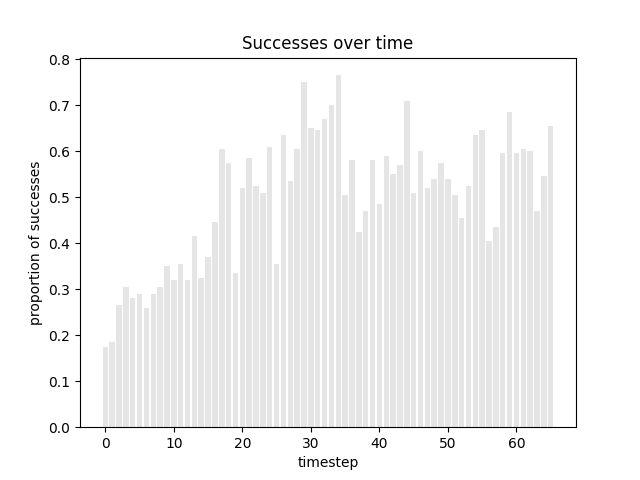
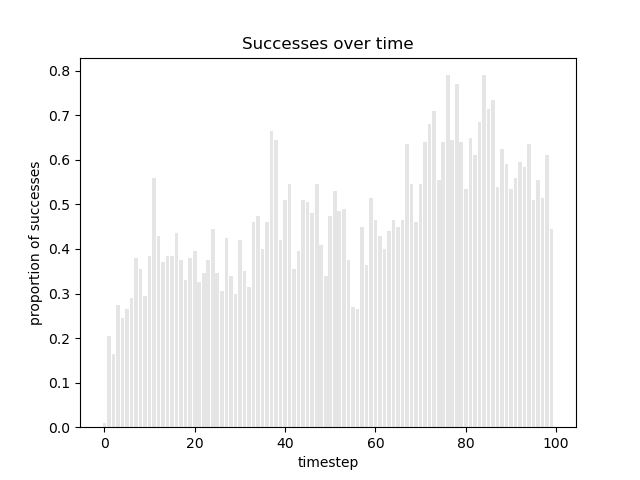
added samples

diff --git a/measurement_layout_AAIO_test.py b/measurement_layout_AAIO_test.py
@@ -103,7 +103,7 @@ if __name__ == "__main__":
         for cap, (fig, ax) in relevant_figs:
             ax.plot(range(T), cap[1], label=f"True capability {cap[0]} value")
     else:
-        filename = "eval_recording_with_2_initial_filler_and_no_final_reset.csv"  
+        filename = "environment_reset_test_REAL_WORKING_SEEMINGLY.csv"  
         # filename = "fixed_hopefully_test_file.csv" 
         N = 200  # number of arenas
         excluded_capabilities = []
